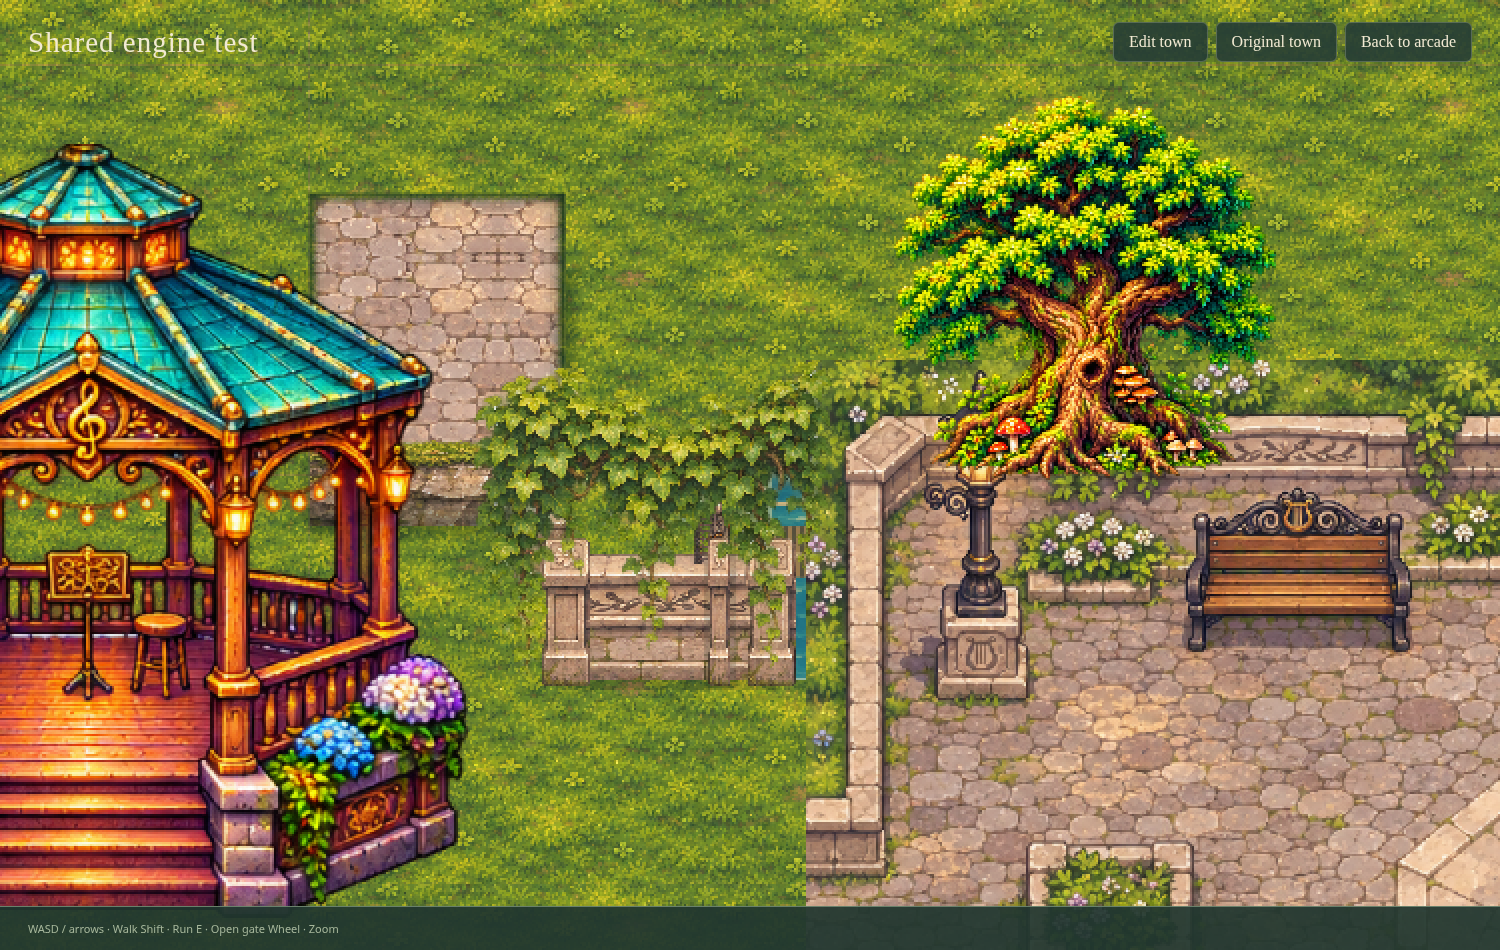
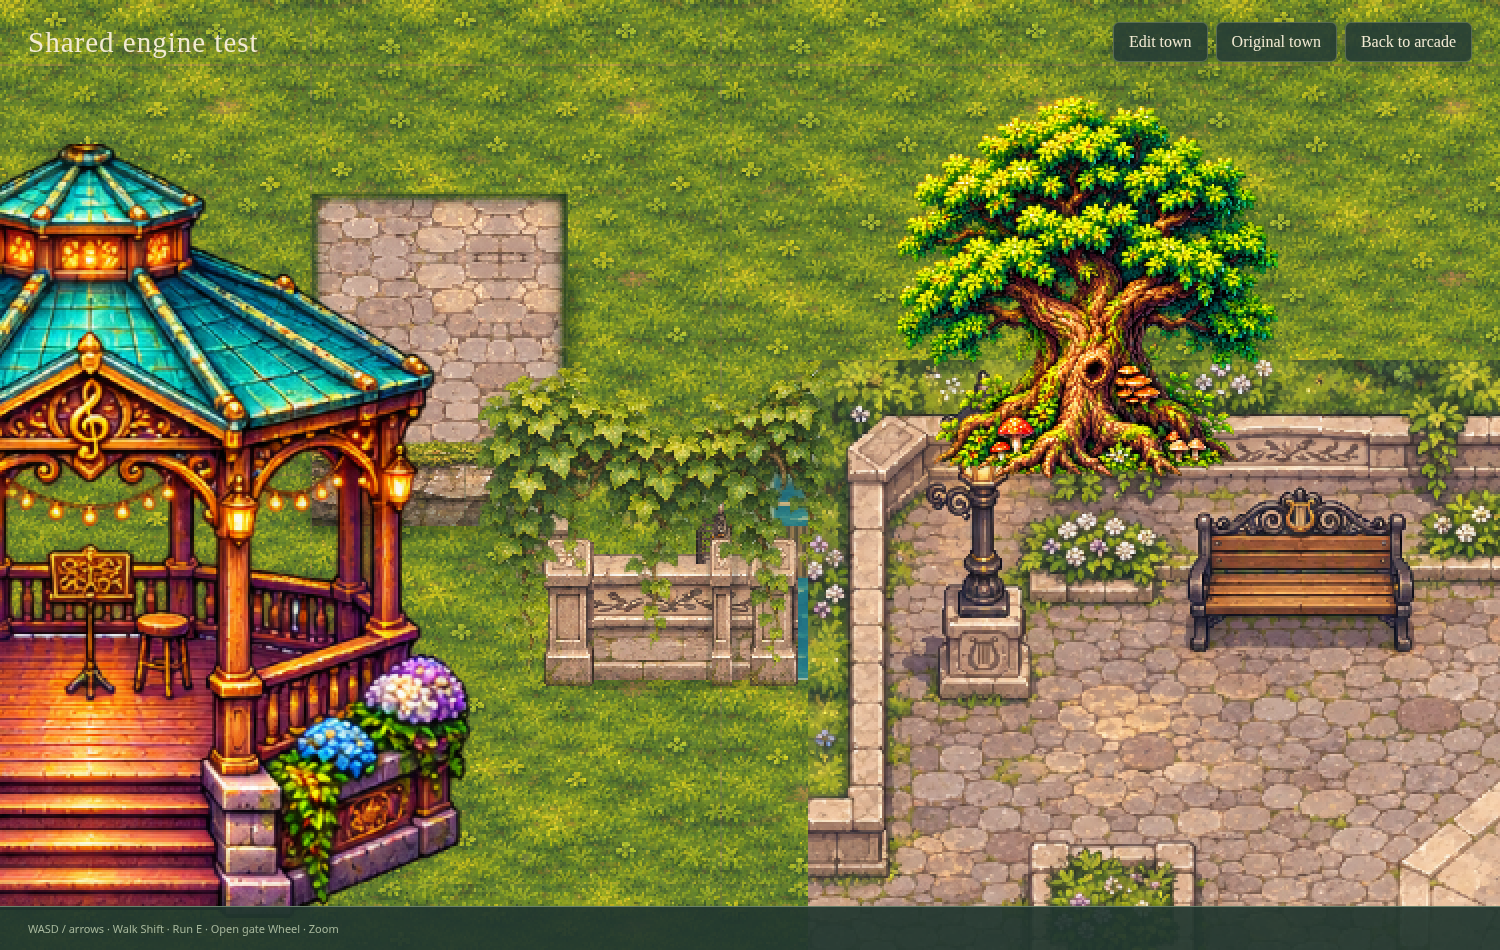
Draw north-south stairs with straight top-down treads

diff --git a/town/builder/index.html b/town/builder/index.html
@@ -1,3 +1,3 @@
-<!doctype html><html lang="en"><head><meta charset="utf-8"><meta name="viewport" content="width=device-width,initial-scale=1"><title>Coda Town · Builder</title><link rel="stylesheet" href="builder.css?v=stair-depth-1"></head><body>
+<!doctype html><html lang="en"><head><meta charset="utf-8"><meta name="viewport" content="width=device-width,initial-scale=1"><title>Coda Town · Builder</title><link rel="stylesheet" href="builder.css?v=stairs-topdown-1"></head><body>
 <header><a href="../">❧ Coda Town</a><input id="name" value="My Coda Town" aria-label="Town name" maxlength="100"><button id="new">New grass map</button><button id="open">Open</button><button id="save">Save project</button><button id="pack">Asset pack ↓</button><button id="undo">Undo</button><button id="redo">Redo</button><button id="walk">Walk test</button><button id="play">Play this town ↗</button><button id="fit">Full map</button></header>
-<main><aside><h1>Town workshop</h1><p>Build your own musical valley.</p><div id="tools"></div><h2 id="assetLibraryTitle">Asset library</h2><input id="search" placeholder="Search trees, houses, gazebo…" aria-label="Search assets"><select id="category" aria-label="Asset category"><option value="">All assets</option></select><div id="library"></div></aside><section id="viewport"><canvas id="map" tabindex="0" aria-label="Town building canvas"></canvas><div id="mapTools"><button id="selectLand">Select land region</button><button id="cliffMount">Cliff assets</button><button id="cornerStyle" hidden>Corners: Smooth round ↻</button><button id="selectAllLand">Select whole map</button><label>View <select id="heightView"><option value="art">Artwork</option><option value="colors">Height colors</option><option value="plan">Elevation plan</option></select></label><span id="hoverLevel">Level 0</span></div><div id="heightLegend" hidden><b>Ground levels</b><div id="levelSwatches"></div><small>Lines mark height changes · arrows mark stairs</small></div><div id="hint">Drag to paint · right drag to pan · wheel to zoom</div><div id="status" role="status">Loading artwork…</div></section><aside id="inspector"><h2>Land selection</h2><p id="regionInfo">Drag a land rectangle in any view. Use Full map for large regions.</p><button id="raiseRegion" disabled>Raise selected land +1</button><button id="lowerRegion" disabled>Lower selected land −1</button><button id="clearRegion" disabled>Clear selection</button><h2 id="buildSettingsTitle">Build settings</h2><label>Ground<select id="surface"></select></label><label>Paving match<select id="paving"><option value="auto">Auto · nearest property</option></select></label><label>Brush width <input id="brush" type="number" min="1" max="15" value="3"></label><p>Round corners: brush near an outside edge corner. Brush width sets the rounding radius, up to 8 tiles.</p><label>Terrain level <input id="level" type="number" min="0" max="8" value="1"></label><p>Steps: drag from one ground level to another. Direction and rise are automatic; brush width sets stair width.</p><label>Steps / bridge finish<select id="finish"><option>stone</option><option>wood</option><option>brick</option></select></label><label>Bridge direction<select id="bridge"><option value="ns">North–south</option><option value="ew">East–west</option></select></label><label>Fence / wall<select id="barrier"></select></label><h2 id="assetName">Choose an asset</h2><label>Placement surface<select id="mountSurface"><option value="ground">Ground</option><option value="cliff">Cliff face · south-facing</option></select></label><label>Height on cliff<input id="mountHeight" type="range" min="0" max="100" value="50"><span id="mountHeightLabel">50%</span></label><label>Size<input id="scale" type="number" min=".25" max="3" step=".25" value="1"></label><label>Rotation<select id="rotation"><option>0</option><option>90</option><option>180</option><option>270</option></select></label><label>Layer<select id="layer"><option>objects</option><option>overgrowth</option><option>ground</option></select></label><label><input id="collision" type="checkbox" checked> Asset collision</label><button id="duplicate">Duplicate selected</button><button id="delete">Delete selected</button><label><input id="grid" type="checkbox"> Grid</label><label><input id="showCollision" type="checkbox"> Show collision</label><p>Raised ground blocks walking at cliff edges. Steps connect the ground levels you drag between. Water blocks walking; bridges cross it. E opens gates during walk test.</p><p>Fences snap to cell edges. Drag an L to join corners. Foliage uses the overgrowth layer.</p><p>Projects autosave in this browser. Save a project file for a portable backup.</p></aside></main><input id="file" type="file" accept=".json" hidden><script src="../../character-renderer.js"></script><script type="module" src="app.mjs?v=stair-depth-1"></script></body></html>
+<main><aside><h1>Town workshop</h1><p>Build your own musical valley.</p><div id="tools"></div><h2 id="assetLibraryTitle">Asset library</h2><input id="search" placeholder="Search trees, houses, gazebo…" aria-label="Search assets"><select id="category" aria-label="Asset category"><option value="">All assets</option></select><div id="library"></div></aside><section id="viewport"><canvas id="map" tabindex="0" aria-label="Town building canvas"></canvas><div id="mapTools"><button id="selectLand">Select land region</button><button id="cliffMount">Cliff assets</button><button id="cornerStyle" hidden>Corners: Smooth round ↻</button><button id="selectAllLand">Select whole map</button><label>View <select id="heightView"><option value="art">Artwork</option><option value="colors">Height colors</option><option value="plan">Elevation plan</option></select></label><span id="hoverLevel">Level 0</span></div><div id="heightLegend" hidden><b>Ground levels</b><div id="levelSwatches"></div><small>Lines mark height changes · arrows mark stairs</small></div><div id="hint">Drag to paint · right drag to pan · wheel to zoom</div><div id="status" role="status">Loading artwork…</div></section><aside id="inspector"><h2>Land selection</h2><p id="regionInfo">Drag a land rectangle in any view. Use Full map for large regions.</p><button id="raiseRegion" disabled>Raise selected land +1</button><button id="lowerRegion" disabled>Lower selected land −1</button><button id="clearRegion" disabled>Clear selection</button><h2 id="buildSettingsTitle">Build settings</h2><label>Ground<select id="surface"></select></label><label>Paving match<select id="paving"><option value="auto">Auto · nearest property</option></select></label><label>Brush width <input id="brush" type="number" min="1" max="15" value="3"></label><p>Round corners: brush near an outside edge corner. Brush width sets the rounding radius, up to 8 tiles.</p><label>Terrain level <input id="level" type="number" min="0" max="8" value="1"></label><p>Steps: drag from one ground level to another. Direction and rise are automatic; brush width sets stair width.</p><label>Steps / bridge finish<select id="finish"><option>stone</option><option>wood</option><option>brick</option></select></label><label>Bridge direction<select id="bridge"><option value="ns">North–south</option><option value="ew">East–west</option></select></label><label>Fence / wall<select id="barrier"></select></label><h2 id="assetName">Choose an asset</h2><label>Placement surface<select id="mountSurface"><option value="ground">Ground</option><option value="cliff">Cliff face · south-facing</option></select></label><label>Height on cliff<input id="mountHeight" type="range" min="0" max="100" value="50"><span id="mountHeightLabel">50%</span></label><label>Size<input id="scale" type="number" min=".25" max="3" step=".25" value="1"></label><label>Rotation<select id="rotation"><option>0</option><option>90</option><option>180</option><option>270</option></select></label><label>Layer<select id="layer"><option>objects</option><option>overgrowth</option><option>ground</option></select></label><label><input id="collision" type="checkbox" checked> Asset collision</label><button id="duplicate">Duplicate selected</button><button id="delete">Delete selected</button><label><input id="grid" type="checkbox"> Grid</label><label><input id="showCollision" type="checkbox"> Show collision</label><p>Raised ground blocks walking at cliff edges. Steps connect the ground levels you drag between. Water blocks walking; bridges cross it. E opens gates during walk test.</p><p>Fences snap to cell edges. Drag an L to join corners. Foliage uses the overgrowth layer.</p><p>Projects autosave in this browser. Save a project file for a portable backup.</p></aside></main><input id="file" type="file" accept=".json" hidden><script src="../../character-renderer.js"></script><script type="module" src="app.mjs?v=stairs-topdown-1"></script></body></html>

diff --git a/town/index.html b/town/index.html
@@ -7,4 +7,4 @@
 <div id="touch"><div class="dpad"><button data-key="ArrowUp" aria-label="Walk north">↑</button><button data-key="ArrowLeft" aria-label="Walk west">←</button><button data-key="ArrowDown" aria-label="Walk south">↓</button><button data-key="ArrowRight" aria-label="Walk east">→</button></div><button id="touchAction" disabled>Interact</button></div>
 <dialog id="mapDialog"><div class="dialog-head"><div><small>FIND YOUR OWN WAY</small><h2>Around the valley</h2></div><button data-close aria-label="Close map">✕</button></div><p>Follow the straight streets, find the stone stairways, and explore the raised neighborhoods. Homes range from cottages to large courtyard houses.</p><canvas id="mapCanvas" width="960" height="720" aria-label="Town map with homes, paths, river, and current position"></canvas><div id="directory"></div></dialog>
 <dialog id="story"><div class="dialog-head"><h2 id="storyTitle"></h2><button data-close aria-label="Close conversation">✕</button></div><p id="storyText"></p><div id="storyActions"></div></dialog>
-<script src="../npc-visitors.js"></script><script src="../character-renderer.js"></script><script type="module" src="boot.mjs?v=stair-depth-1"></script></body></html>
+<script src="../npc-visitors.js"></script><script src="../character-renderer.js"></script><script type="module" src="boot.mjs?v=stairs-topdown-1"></script></body></html>

diff --git a/town/world/stair-topdown-browser.py b/town/world/stair-topdown-browser.py
@@ -1,0 +1,103 @@
+"""Actual stair artwork keeps parallel sides in north/south orthographic views."""
+from functools import partial
+from http.server import SimpleHTTPRequestHandler, ThreadingHTTPServer
+from pathlib import Path
+import json
+import threading
+from playwright.sync_api import sync_playwright
+
+ROOT = Path(__file__).resolve().parents[2]
+
+
+class Quiet(SimpleHTTPRequestHandler):
+    def log_message(self, *_):
+        pass
+
+
+server = ThreadingHTTPServer(('127.0.0.1', 0), partial(Quiet, directory=str(ROOT)))
+threading.Thread(target=server.serve_forever, daemon=True).start()
+try:
+    with sync_playwright() as p:
+        browser = p.chromium.launch(executable_path='/usr/bin/chromium', args=['--no-sandbox'])
+        page = browser.new_page(viewport={'width':1200, 'height':1200})
+        errors = []
+        page.on('pageerror', lambda e: errors.append(str(e)))
+        page.goto(f'http://127.0.0.1:{server.server_port}/town/builder/')
+        page.wait_for_function('!!window.townBuilder')
+        result = page.evaluate('''async () => {
+          const dependency=(code,name,parent)=>new URL(code.split(String.fromCharCode(10)).find(line=>line.includes(name+'.mjs')).split("'")[1],parent).href;
+          const renderURL=new URL('/town/world/render.mjs',location.origin).href;
+          const source=await (await fetch(renderURL)).text();
+          const constructionURL=dependency(source,'construction',renderURL),modelURL=dependency(source,'model',renderURL),catalogURL=dependency(source,'catalog',renderURL);
+          const appURL=document.querySelector('script[type="module"]').src,appSource=await (await fetch(appURL)).text();
+          const stairsURL=dependency(appSource,'stairs',appURL),runtimeURL=dependency(appSource,'runtime',appURL);
+          const {drawStairs}=await import(constructionURL),{blank}=await import(modelURL),{planStairs}=await import(stairsURL),{render}=await import(runtimeURL),{catalog}=await import(catalogURL);
+          function fixture(direction,width,finish){
+            const d=blank(),low={x:20,y:direction==='north'?26:22},high={x:20,y:direction==='north'?22:26};
+            d.name='Top-down stair regression';d.spawn={x:1312,y:1800};
+            for(let x=16;x<=24;x++)for(let y=direction==='north'?19:26;y<=(direction==='north'?22:29);y++)d.cells[`${x},${y}`]={surface:'grass',level:2};
+            const plan=planStairs(d,low,high,{width,finish});if(!plan.valid)throw Error(plan.message);
+            for(const[k,a]of plan.edits)d.cells[k]=a;
+            return {d,plan};
+          }
+          const checks=[],gallery=[];
+          for(const finish of ['stone','wood','brick'])for(const direction of ['north','south'])for(const width of [1,3]){
+            const {d,plan}=fixture(direction,width,finish),c=document.createElement('canvas'),left=(20-Math.floor(width/2))*64-16,top=1100;
+            c.width=width*64+32;c.height=800;const g=c.getContext('2d');g.imageSmoothingEnabled=false;g.translate(-left,-top);
+            const tiles=plan.edits.map(([key])=>key.split(',').map(Number)).sort((a,b)=>a[1]-b[1]||a[0]-b[0]);
+            for(const[x,y]of tiles)drawStairs(g,d,x,y);
+            const data=g.getImageData(0,0,c.width,c.height).data,rows=[];
+            for(let y=0;y<c.height;y++){
+              let first=-1,last=-1;
+              for(let x=0;x<c.width;x++)if(data[(y*c.width+x)*4+3]>=200){if(first<0)first=x;last=x;}
+              if(first>=0)rows.push({y,first,last});
+            }
+            if(!rows.length)throw Error('No stair artwork rendered for '+finish+' '+direction);
+            const firstY=rows[0].y+2,lastY=rows.at(-1).y-2,interior=rows.filter(r=>r.y>=firstY&&r.y<=lastY);
+            const bad=interior.filter(r=>r.first!==16||r.last!==16+width*64-1);
+            checks.push({finish,direction,width,passed:interior.length>100&&bad.length===0,rows:interior.length,badRows:bad.length,example:bad[0]||null});
+            if(width===3){
+              const image=document.createElement('canvas');image.width=360;image.height=460;const ctx=image.getContext('2d');ctx.imageSmoothingEnabled=false;
+              render(ctx,d,{x:1312,y:1520,zoom:.9},360,460);
+              gallery.push({finish,direction,url:image.toDataURL()});
+            }
+          }
+          for(const finish of ['stone','wood','brick']){
+            const c=catalog.get('steps-'+finish).canvas,data=c.getContext('2d').getImageData(0,0,c.width,c.height).data;
+            let bad=0;
+            for(let y=2;y<c.height-2;y++)if(data[(y*c.width)*4+3]<200||data[(y*c.width+c.width-1)*4+3]<200)bad++;
+            checks.push({finish,kind:'decorative flight',passed:bad===0,rows:c.height-4,badRows:bad});
+          }
+          return {checks,gallery,project:fixture('north',3,'stone').d,runtimeURL};
+        }''')
+        for check in result['checks']:
+            print(json.dumps(check), flush=True)
+        assert all(check['passed'] for check in result['checks']), 'North/south stair art still has tapered or angled side bounds.'
+
+        # The fixture goes through the normal save/play flow; both screens use
+        # identical static rendering with the same production stair modules.
+        page.locator('#file').set_input_files({'name':'topdown.json','mimeType':'application/json','buffer':json.dumps(result['project']).encode()})
+        page.wait_for_function('townBuilder.project.name==="Top-down stair regression"')
+        capture='''async ({url,game})=>{const{render}=await import(url),c=document.createElement('canvas');c.width=360;c.height=460;const g=c.getContext('2d');g.imageSmoothingEnabled=false;render(g,game?townGame.project:townBuilder.project,{x:1312,y:1520,zoom:.9},360,460);return c.toDataURL();}'''
+        before=page.evaluate(capture,{'url':result['runtimeURL'],'game':False})
+        page.locator('#play').click()
+        page.wait_for_function('!!window.townGame')
+        assert before==page.evaluate(capture,{'url':result['runtimeURL'],'game':True}), 'Editor/game stair rendering differs.'
+
+        page.evaluate('''samples=>{
+          document.querySelectorAll('body>*').forEach(e=>e.style.display='none');
+          const gallery=document.createElement('div');gallery.id='stairsGallery';gallery.style.cssText='display:grid;grid-template-columns:repeat(3,360px);gap:12px;background:#20382b;padding:12px;width:1128px;color:#f5e3ba;font:18px Georgia';
+          for(const direction of ['north','south'])for(const finish of ['stone','wood','brick']){
+            const sample=samples.find(s=>s.finish===finish&&s.direction===direction),tile=document.createElement('div'),img=document.createElement('img');
+            img.src=sample.url;img.width=360;img.height=460;img.style.cssText='display:block;image-rendering:pixelated;margin-top:8px';
+            tile.append(document.createTextNode(finish[0].toUpperCase()+finish.slice(1)+' · ascent '+direction),img);gallery.append(tile);
+          }
+          document.body.append(gallery);
+        }''',result['gallery'])
+        page.locator('#stairsGallery').screenshot(path=str(ROOT/'docs/town-preview/stairs-topdown.png'))
+        assert not errors,errors
+        browser.close()
+finally:
+    server.shutdown()
+
+print('Actual stone/wood/brick north/south stairs keep parallel sides at widths 1 and 3; editor/game pixel parity passed.')

diff --git a/town/builder/README.md b/town/builder/README.md
@@ -38,11 +38,15 @@ Additional checks: `python3 town/builder/details-browser.py` validates the 19 es
 
 **Steps** now works by dragging between two existing terrain levels. Either drag order works. The editor snaps to a straight north/south/east/west run, reads both end heights, previews the connection, and builds it when you release. Brush width sets the width; Finish chooses stone, wood or brick. Flat landings at the clicked centers connect to a continuous slope, including multi-level changes. Same-height drags and obstructed/water routes show a message instead of changing the map. Escape cancels; each completed run is one Undo. Existing one-level stair cells still load.
 
+North/south stair flights use straight top-down treads with parallel sides, sampled from the detailed stone, wood and brick artwork without its baked perspective edges. Wide flights share one continuous tread across their lanes. The decorative stair-flight assets use the same straight tread interior. Terrain heights, climbable slopes and collision are unchanged.
+
 Cobble painting now samples actual scene paving at its world scale. **Paving match → Auto · nearest property** chooses Music Square or the nearest home estate; a specific scene can also be selected. The donor strip meets the asset's entrance edge, and mirrored continuation shares its edge colors and stone size. Paths have feathered grassy borders. The asset pack includes the matching paving textures.
 
 **Landmarks → Coda Arcade · exact interior footprint** is a retrofuturistic exterior with a lounge roof, disco dome, glass main-hall roof and southeast entrance. Its floor footprint and polygon collision use the exact same `arcade-footprint.js` geometry as the actual interior. Scaling is locked at 1:1; the original canvas is 1672×941 world units and the occupied floor bounds are 1512×685. Roof/facade projection adds visual height without changing that footprint. The exterior is a placeable building; placing it does not relocate or replace the active arcade interior.
 
 Validation: `node --test town/builder/stairs.test.mjs`; `python3 town/builder/drag-stairs-browser.py`. The browser check covers drag preview, reverse dragging, one-action undo, saved stair profiles, paving joins, exact arcade polygon collision and scale locking.
+
+Projection check: `python3 town/world/stair-topdown-browser.py` verifies constant-width north/south surfaces in all three finishes at widths one and three, and captures the actual shared game rendering.
 
 ## South-facing decoration pack and cliff placement
 

diff --git a/town/ART-DIRECTION.md b/town/ART-DIRECTION.md
@@ -65,6 +65,8 @@ Editor tools must include obvious regional selection and a numbered, color-coded
 
 Steps are a connection tool: drag from one existing ground height to another. Do not require a manually selected ascent direction/height. Keep endpoints at their clicked elevations, make movement continuous in both directions, and project tread artwork over the actual slope.
 
+North/south stairs have a top-down view: rectangular treads and parallel flight edges. Exclude baked trapezoidal perspective and angled step ends from the source sampling, while retaining its detailed material, tread highlights and riser shadows. Apply the same sampling to decorative stair-flight assets.
+
 Painted cobble must share the source scene's stone scale, palette and entry-edge colors. Use real donor paving from Music Square or the chosen home estate; do not substitute the old generic ground atlas cobble. Feather grass borders while preserving clear passage joins.
 
 The retrofuturistic Coda Arcade exterior uses a copper/teal Art Deco roof, neon trim, a glass main hall, lounge wing and dance dome. The inside and outside share `arcade-footprint.js`; preserve its exact floor polygon union, southeast entrance and world-unit scale. Roof shadows, ornaments and wall projection are not extra floor area. Do not estimate its floor plan from an image or resize it to fit a generic rectangle.

diff --git a/docs/town-preview/README.md b/docs/town-preview/README.md
@@ -101,3 +101,5 @@ The pack is divided into 16 categories and is south-facing by default. **Cliff a
 Click **Round corners** repeatedly, or use the **Corners** button above the map, to cycle the three styles. Brush a new or existing land/water/path corner to apply the current style. Shapes share their original radius and endpoints, are undoable, persist in saved projects, and affect collision as well as artwork.
 
 Stair flights now draw behind higher foreground land. Their exposed banks follow the slope with continuous rock faces, including the north bank and adjacent wide flights. The updated [drag-stairs capture](drag-stairs.png) shows the shared editor/game rendering.
+
+North/south stairs now use parallel sides and rectangular top-down treads, including the decorative flight assets. [Stone, wood and brick in the actual shared renderer](stairs-topdown.png).
